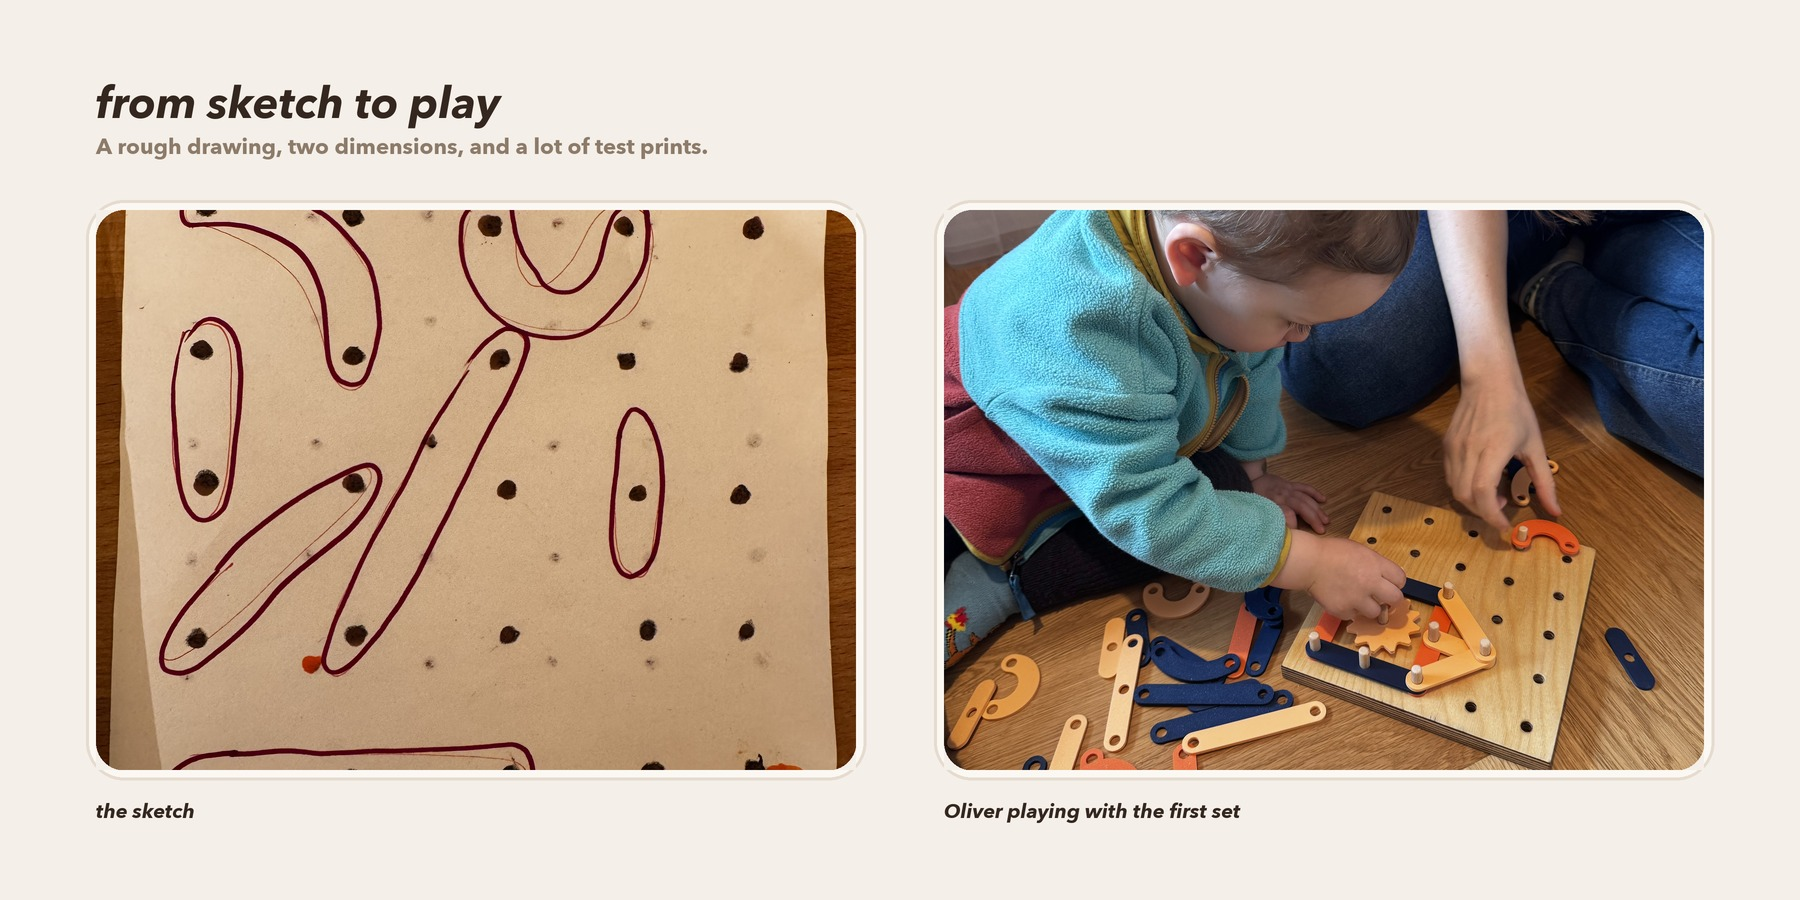
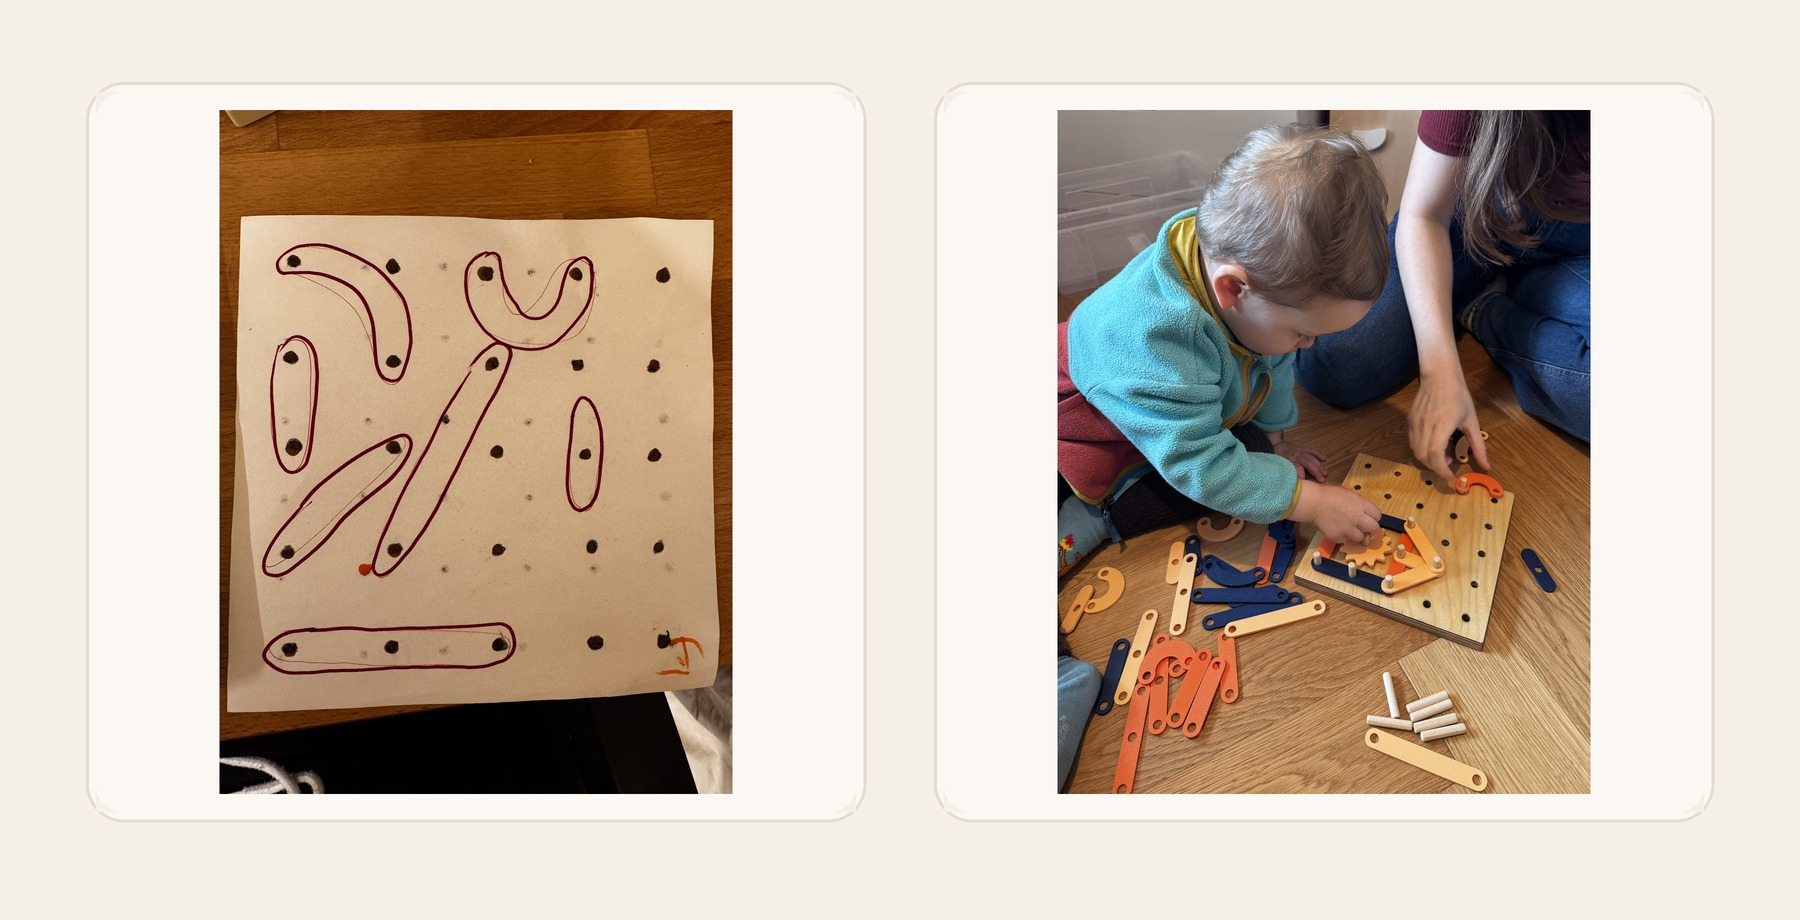
Refine README story section

diff --git a/generate_repository_assets.py b/generate_repository_assets.py
@@ -175,13 +175,18 @@ def resize_for_repo(image: Image.Image, width: int):
     return image.resize((width, int(image.height * ratio)), Image.Resampling.LANCZOS)
 
 
-def rounded_photo(image: Image.Image, size: tuple[int, int], radius: int):
-    photo = fit_image(image, size).convert("RGB")
+def framed_photo(image: Image.Image, size: tuple[int, int], radius: int, padding: int):
+    base = Image.new("RGB", size, CARD)
+    fitted = ImageOps.contain(ImageOps.exif_transpose(image).convert("RGB"), (size[0] - 2 * padding, size[1] - 2 * padding), Image.Resampling.LANCZOS)
+    offset = ((size[0] - fitted.width) // 2, (size[1] - fitted.height) // 2)
+    base.paste(fitted, offset)
+
     mask = Image.new("L", size, 0)
     mask_draw = ImageDraw.Draw(mask)
     mask_draw.rounded_rectangle((0, 0, size[0], size[1]), radius=radius, fill=255)
+
     result = Image.new("RGB", size, BACKGROUND)
-    result.paste(photo, mask=mask)
+    result.paste(base, mask=mask)
     return result
 
 
@@ -198,23 +203,11 @@ def generate_story_image():
     processed_play.save(ASSETS_DIR / "oliver-playing.jpg", quality=92)
 
     logical_w = 1800
-    logical_h = 900
+    logical_h = 920
     image = Image.new("RGB", (logical_w * UPSCALE, logical_h * UPSCALE), BACKGROUND)
     draw = ImageDraw.Draw(image)
-    title_font = load_font(44 * UPSCALE, bold=True)
-    body_font = load_font(22 * UPSCALE)
-    label_font = load_font(20 * UPSCALE, bold=True)
-
-    draw.text((96 * UPSCALE, 74 * UPSCALE), "from sketch to play", fill=TEXT, font=title_font)
-    draw.text(
-        (96 * UPSCALE, 132 * UPSCALE),
-        "A rough drawing, two dimensions, and a lot of test prints.",
-        fill=SUBTLE,
-        font=body_font,
-    )
-
-    photo_y = 210 * UPSCALE
-    card_size = (760 * UPSCALE, 560 * UPSCALE)
+    photo_y = 92 * UPSCALE
+    card_size = (760 * UPSCALE, 720 * UPSCALE)
     gap = 88 * UPSCALE
     left_x = 96 * UPSCALE
     right_x = left_x + card_size[0] + gap
@@ -229,11 +222,8 @@ def generate_story_image():
             width=3 * UPSCALE,
         )
 
-    image.paste(rounded_photo(sketch, card_size, radius), (left_x, photo_y))
-    image.paste(rounded_photo(play, card_size, radius), (right_x, photo_y))
-
-    draw.text((left_x, (photo_y + card_size[1] + 28 * UPSCALE)), "the sketch", fill=TEXT, font=label_font)
-    draw.text((right_x, (photo_y + card_size[1] + 28 * UPSCALE)), "Oliver playing with the first set", fill=TEXT, font=label_font)
+    image.paste(framed_photo(sketch, card_size, radius, padding=18 * UPSCALE), (left_x, photo_y))
+    image.paste(framed_photo(play, card_size, radius, padding=18 * UPSCALE), (right_x, photo_y))
 
     image.resize((logical_w, logical_h), Image.Resampling.LANCZOS).save(ASSETS_DIR / "from-sketch-to-play.jpg", quality=92)
 

diff --git a/README.md b/README.md
@@ -3,8 +3,12 @@
 A small printable pegboard toy set built on a `40 mm` grid: seven play pieces, one tuned peg, four gears, and two printable boards.
 
 <p align="center">
-  <img src="assets/from-sketch-to-play.jpg" alt="Sketch on the left, Oliver playing with the first printed set on the right" width="100%">
+  <img src="assets/from-sketch-to-play.jpg" alt="Original sketch next to Oli playing with the first printed set" width="100%">
 </p>
+
+| Sketch | First print |
+| --- | --- |
+| One rough marker sketch with just the peg spacing and peg diameter. | Oli playing with the first working printed set after a few fit-test iterations. |
 
 I had a silly idea for a pegboard toy. Before opening Fusion, SketchUp, or any other CAD tool and drawing it by hand, I wanted to see what an AI agent would do with a rough sketch and two dimensions: the pegs are `40 mm` apart and `8 mm` wide.
 
